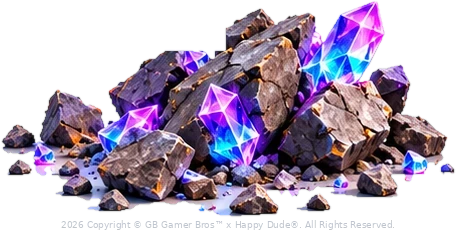
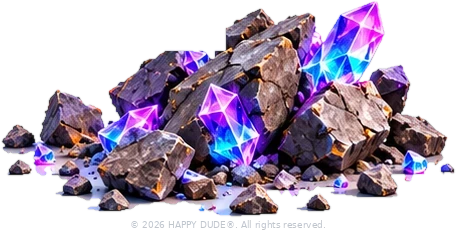
Public curation pass 3: clean shards, Rumbler rolling hero, Brightback gallery trim, approved notice for new exports
- Crystal/Prism Shards floor glow removed (crystal pixels unchanged)
- Rumbler in-world = approved 1117 px rolling hero (was 704 px)
- Brightback: technical turnaround and 288 px detail removed from public view; scene picks use their own label
- gbmedia: new exports use the approved notice by default
- PROJECT_STATUS: Prism Ridge options A/B/C/D, source-limited assets, metadata counts

Claude-Session: https://claude.ai/code/session_01CxzC7MaAKU263j7nWLmyoS

Changed region(s): [[0.1228, 0.9353, 0.8596, 0.9957]]

diff --git a/staging/media-manifest.js b/staging/media-manifest.js
@@ -1057,8 +1057,8 @@ window.GB_MEDIA = {
   "sband": 14,
   "alpha": true,
   "master": "pk-rubble.png",
-  "rev": "be0da76aa5",
-  "srev": "66c5f2360a"
+  "rev": "e48cc72e0d",
+  "srev": "35daaeb23c"
  },
  "assets/entities/crystal-guardian-front": {
   "w": 336,
@@ -1753,8 +1753,8 @@ window.GB_MEDIA = {
   "sband": 14,
   "alpha": false,
   "master": "goom-scene-crop.png",
-  "rev": "6f80eb74b1",
-  "srev": "ffe9fe041b"
+  "rev": "17ac51b724",
+  "srev": "7ff85ee088"
  },
  "assets/entities/scenes/rolling-boulder-ingame": {
   "w": 704,
@@ -1767,6 +1767,18 @@ window.GB_MEDIA = {
   "master": "final-rolling-boulder.png",
   "rev": "32cad515b4",
   "srev": "f2e5b0baf7"
+ },
+ "assets/entities/scenes/rolling-boulder-rolling-hero": {
+  "w": 1117,
+  "h": 571,
+  "band": 20,
+  "sw": 960,
+  "sh": 491,
+  "sband": 17,
+  "alpha": false,
+  "master": "Rumbler_Rolling_Boulder_Card__rolling_hero.png",
+  "rev": "ce3fd98eb7",
+  "srev": "ad19d02126"
  },
  "assets/entities/scenes/spike-bot-ingame": {
   "w": 576,
@@ -2473,9 +2485,9 @@ window.GB_MEDIA = {
   "sh": 488,
   "sband": 14,
   "alpha": true,
-  "master": "crystal-geo.png | 2026-10-11 floor puddle removed by silhouette mask (pixels unchanged)",
-  "rev": "4083abe608",
-  "srev": "4083abe608"
+  "master": "crystal-geo.png",
+  "rev": "b8e3213d1d",
+  "srev": "b8e3213d1d"
  },
  "assets/objects/crystal-chest": {
   "w": 1333,
@@ -2490,16 +2502,16 @@ window.GB_MEDIA = {
   "srev": "8620dd1d96"
  },
  "assets/objects/crystal-shards": {
-  "w": 514,
-  "h": 266,
+  "w": 487,
+  "h": 263,
   "band": 14,
-  "sw": 514,
-  "sh": 266,
+  "sw": 487,
+  "sh": 263,
   "sband": 14,
   "alpha": true,
-  "master": "crystal-shards.png",
-  "rev": "69d853a8b9",
-  "srev": "c6ce159947"
+  "master": "crystal-shards-mat.png",
+  "rev": "378aab8f5b",
+  "srev": "378aab8f5b"
  },
  "assets/objects/glitchkey": {
   "w": 432,
@@ -2533,21 +2545,21 @@ window.GB_MEDIA = {
   "sh": 490,
   "sband": 14,
   "alpha": true,
-  "master": "prism-crystal-geo.png | 2026-10-11 floor puddle removed by silhouette mask (pixels unchanged)",
-  "rev": "f946157e8f",
-  "srev": "f946157e8f"
+  "master": "prism-crystal-geo.png",
+  "rev": "6c74d42132",
+  "srev": "6c74d42132"
  },
  "assets/objects/prism-shards": {
-  "w": 508,
-  "h": 268,
+  "w": 463,
+  "h": 241,
   "band": 14,
-  "sw": 508,
-  "sh": 268,
+  "sw": 463,
+  "sh": 241,
   "sband": 14,
   "alpha": true,
-  "master": "prism-shards.png",
-  "rev": "1e298efa70",
-  "srev": "c82554ac5b"
+  "master": "prism-shards-hull.png",
+  "rev": "4d5ca9fd70",
+  "srev": "4d5ca9fd70"
  },
  "assets/objects/quickhack/code": {
   "w": 560,
@@ -2849,9 +2861,9 @@ window.GB_MEDIA = {
   "mw": 720,
   "mh": 386,
   "mband": 14,
-  "rev": "b292338d34",
-  "srev": "c8b0f32bc7",
-  "mrev": "06eb21cafc"
+  "rev": "f032b1cea2",
+  "srev": "5195d0eefd",
+  "mrev": "9c1ed4af29"
  },
  "assets/systems/portals/portal-meadow": {
   "w": 1254,
@@ -2894,8 +2906,8 @@ window.GB_MEDIA = {
   "sband": 14,
   "alpha": false,
   "master": "prism-optC-crop.png",
-  "rev": "a829b78f01",
-  "srev": "70bc2fea81"
+  "rev": "678415e83a",
+  "srev": "e53287f0fd"
  },
  "assets/systems/portals/portal-river": {
   "w": 1672,

diff --git a/staging/index.html b/staging/index.html
@@ -2,9 +2,9 @@
 <html lang="en">
 <head>
 <meta charset="utf-8">
-<meta name="gb-revision" content="r-4c3a48ff">
+<meta name="gb-revision" content="r-be07e7bb">
 <script id="gbFresh">/* reload once if a newer staging build exists (HTML may be cached up to ~10 min) */
-(function(){var R="r-4c3a48ff";try{fetch("revision.json?t="+Date.now(),{cache:"no-store"}).then(function(r){return r.ok?r.json():null}).then(function(j){if(!j||!j.revision||j.revision===R)return;var k="gb-rev-reload",d=null;try{d=sessionStorage.getItem(k)}catch(e){}if(d===j.revision)return;try{sessionStorage.setItem(k,j.revision)}catch(e){}var u=new URL(location.href);u.searchParams.set("r",j.revision);location.replace(u.toString())}).catch(function(){})}catch(e){}})();
+(function(){var R="r-be07e7bb";try{fetch("revision.json?t="+Date.now(),{cache:"no-store"}).then(function(r){return r.ok?r.json():null}).then(function(j){if(!j||!j.revision||j.revision===R)return;var k="gb-rev-reload",d=null;try{d=sessionStorage.getItem(k)}catch(e){}if(d===j.revision)return;try{sessionStorage.setItem(k,j.revision)}catch(e){}var u=new URL(location.href);u.searchParams.set("r",j.revision);location.replace(u.toString())}).catch(function(){})}catch(e){}})();
 </script>
 <meta name="viewport" content="width=device-width,initial-scale=1,viewport-fit=cover">
 <meta name="theme-color" content="#0b2a6b">
@@ -310,18 +310,18 @@
   <p class="site-foot__legal">© 2026 HAPPY DUDE®. All rights reserved.</p>
   <p class="site-foot__links"><a href="rights.html">Rights &amp; IP</a></p>
   <p class="site-foot__note">Adventure Mountain™ artwork, characters, environments and visual assets are original project material.</p>
-  <p class="site-foot__build" hidden>Build <span id="gbRev">r-4c3a48ff</span></p>
+  <p class="site-foot__build" hidden>Build <span id="gbRev">r-be07e7bb</span></p>
 </footer>
 
 <div class="toast" id="steamNote" role="status" aria-live="polite">Steam store page coming soon.</div>
 
-<script src="media-manifest.js?v=873baf29ac" defer></script>
+<script src="media-manifest.js?v=b757ae65ce" defer></script>
 <script src="areas.js?v=d38e2d08b4" defer></script>
-<script src="entities.js?v=a0045f94a3" defer></script>
+<script src="entities.js?v=8558559c64" defer></script>
 <script src="world-data.js?v=4e4c3357aa" defer></script>
 <script src="panorama-manifest.js?v=f6156987ce" defer></script>
 <script src="world.js?v=ecb5fa5de5" defer></script>
 <script src="characters.js?v=1d73531302" defer></script>
-<script src="staging.js?v=3c2b9a8db2" defer></script>
+<script src="staging.js?v=326199bba3" defer></script>
 </body>
 </html>

diff --git a/staging/staging.js b/staging/staging.js
@@ -433,7 +433,8 @@
     // gallery row: in-world (single scene) + studio hero + curated views. A row with a single pick
     // would advertise a choice that doesn't exist, so it is omitted (the stage already shows that image).
     const gallery = [];
-    if (scAny && scenesOf(id).length === 1) gallery.push(`<li><button class="dossier__pick dossier__pick--scene" type="button" data-scene="${id}" data-hero-label="In the world" aria-label="${esc(e.name)}: in the world" aria-pressed="${!!sc}"><span class="stage-box">${sceneImg(scAny, "", true)}</span><small>In the world</small></button></li>`);
+    const scLab = (scAny && scAny.label) || "In the world";
+    if (scAny && scenesOf(id).length === 1) gallery.push(`<li><button class="dossier__pick dossier__pick--scene" type="button" data-scene="${id}" data-hero-label="${esc(scLab)}" aria-label="${esc(e.name)}: ${esc(scLab)}" aria-pressed="${!!sc}"><span class="stage-box">${sceneImg(scAny, "", true)}</span><small>${esc(scLab)}</small></button></li>`);
     if (stage && !Object.values(e.views || {}).includes(hero) && !Object.values(e.states || {}).includes(hero)) gallery.push(`<li><button class="dossier__pick" type="button" data-hero="${hero}" data-hero-label="${esc(e.heroLabel || "Hero")}" aria-label="${esc(e.name)}: ${esc(e.heroLabel || "Hero")}" aria-pressed="${!sc}"><span class="stage-box">${cut(hero, "dossier__thumbimg", "", "120px")}</span><small>${esc(e.heroLabel || "Hero")}</small></button></li>`);
     const nPicks = (h) => h.split("<li").length - 1;
     // hero + in-world first (owner order); a lone hero pick joins the action row so the visitor can always return to it

diff --git a/staging/entities.js b/staging/entities.js
@@ -322,13 +322,14 @@ window.GB_ENTITY_SCENE = {
   // person and beam scene. Hostile canonical model will be the main hero without it.
   // Do not re-enable this source until an approved in-world replacement exists.
   "springboard": [{ src: "assets/objects/springboard/scene-portal-meadow", fx: 45, label: "Portal Meadow™" }, { src: "assets/objects/springboard/scene-riverworks", fx: 45, label: "Riverworks™" }, { src: "assets/objects/springboard/scene-frost-peaks", fx: 45, label: "Frosty Peaks™" }],
-  "rolling-boulder": { src: SC + "rolling-boulder-ingame", fx: 62 },
+  // Rolling hero from the approved Rolling Boulder Full Reference Card (Drive 1TCXFYk3…, 1117 px; was 704 px)
+  "rolling-boulder": { src: SC + "rolling-boulder-rolling-hero", fx: 50 },
   "stone-golem": { src: SC + "stone-golem-ingame", fx: 50 },
   "crystal-guardian": { src: SC + "crystal-guardian-ingame", fx: 50 },
   "brightback": [
-    { src: E + "brightback-v1-turnaround-clean", fx: 50, label: "Four-view turnaround" },
+    // "Four-view turnaround" removed from public view 2026-10-11 (technical turnaround; thin strip left a large blank stage); file kept
     { src: E + "brightback-v1-face-clean", fx: 50, label: "Face and core detail" },
-    { src: E + "brightback-v1-hand-clean", fx: 50, label: "Prism Shard detail" },
+    // "Prism Shard detail" (brightback-v1-hand-clean, 288 px) removed from public view 2026-10-11: shown at 0.4x density on phones; file kept
   ],
 };
 

diff --git a/staging/tools/gbmedia.py b/staging/tools/gbmedia.py
@@ -294,6 +294,11 @@ def verify():
     return 1 if bad else 0
 
 
+# 2026-10-11: every NEW export (build / gbmid / gbpano / stamp) uses the owner-approved notice — XMP, EXIF and
+# the overscan-band text. LEGACY constants above stay only so verify() still recognises older derivatives.
+use_current_notice()
+
+
 if __name__ == "__main__":
     if len(sys.argv) < 2:
         raise SystemExit(__doc__)

diff --git a/staging/PROJECT_STATUS.md b/staging/PROJECT_STATUS.md
@@ -17,6 +17,36 @@ Checkpoint: 2026-10-05 · dev branch `ccr-aefb96a7-5w3hgh`
 
 Shell note: don't run `pkill -f "http.server"` inside a compound command. It matches its own shell line and kills the whole command.
 
+## PUBLIC CURATION — pass 3 (2026-10-11, staging only)
+Reconciled first: main 677f26c == dev public files.
+COMPLETED
+- Crystal Shards + Prism Shards: floor glow removed (saturation mask / per-shard convex-hull mask; crystal pixels unchanged).
+- Rumbler™ in-world = approved Rolling Boulder Full Reference Card "rolling hero" (Drive 1TCXFYk3…, 1117 px; was 704 px).
+- Brightback™ gallery: removed "Four-view turnaround" (technical strip, blank stage) and "Prism Shard detail" (288 px at 0.4x density).
+  Gallery = Hero (V1) + Face and core detail. Single scene picks now use their own label (was mislabelled "In the world").
+- New exports default to the approved notice (gbmedia.use_current_notice() at import: XMP, EXIF and band text).
+NEEDS VISUAL APPROVAL — PRISM RIDGE (Option C remains live; NOT final). Real Fast Travel renders at 390 px of:
+  A in-game example (master, 255 px: soft) · A approved prismatic flag only (PRISM_RIDGE_FLAG_ALTERNATE_CRYSTAL_FIELD, 1536 px: sharp, no portal)
+  · B four-player flag set (master, 438 px: flags only) · C portal display (master, 520 px: correct flags, letterboxed)
+  · D pr04 area view, no flag (1448 px: sharp; canon "prefer no flag over wrong flag").
+  Rejected: PRISM_RIDGE_PASS_A (red flags + floating islands), PRISM_RIDGE_PASS_B (purple flags = Summit Spine™, already used there).
+  RECOMMENDATION: Option A is the master's own "Prism Ridge flag" (prismatic crystal field; matches the 1536 px approved flag reference
+  and the Prismatic Banner Collection). No approved full-resolution portal scene with that flag exists → commission one (portal + prismatic
+  flag, PASS_B composition, no floating islands). Interim: D (sharpest, no wrong flag) or keep C.
+SOURCE-LIMITED (exact missing assets)
+- Rumbler™ / Stone Walker™ destroyed with amber/yellow crystals: approved Rolling Boulder card "Destroyed" = grey stone rubble only;
+  Stone Walker States Master has no rubble. Missing: approved amber-crystal rubble render (proposal: same treatment as Guardian Rubble B,
+  amber crystals instead of prism) — owner design approval needed before creation.
+- Claw Bot™ actions (Final Production Reference cells 185–189 px) and Rotor Bot™ actions (spec 139–195 px; Animation Bundle attack cells
+  ~280x120 with flames on a pale sheet): need ≥1200 px transparent renders of Walk, Alert, Clamp (Claw) and Patrol, Charge/Attack A,
+  Dive B with full flames (Rotor) from the approved 3D masters (Higgsfield Claw rev 6 / Rotor rev 7).
+COPYRIGHT METADATA (494 public rasters): 47 carry the exact current notice "© 2026 HAPPY DUDE®. All rights reserved.";
+447 carry only the legacy "2026 Copyright © GB Gamer Bros™ x Happy Dude®…" (accepted by verify, not current). Not mass-restamped on purpose:
+it would change every file revision and force a full re-download, and their hidden band pixels carry the legacy text — do it together
+with the owner-approved watermark/band re-export.
+PERFORMANCE (390@3x, throttled 4G, cold): LCP 3.80 s, images at load 4.20 MB (16 files); first Fast Travel tap 0.46 s cold / 10 ms warm.
+TESTS: func 23/23; 6 owner viewports 0 overflow / 22 dossiers / 0 errors; invariants OK; verify 494/494.
+
 ## PUBLIC CURATION — pass 2 (2026-10-11, staging only, awaiting owner visual approval)
 Reconciled first: main 14e2845 == dev public files (no newer work existed). Every removal → entity `archived: {}` (files kept).
 PERFORMANCE — Fast Travel: new 720 px mobile tier (tools/gbmid.py, LANCZOS resize of the approved full derivative + band, metadata;
